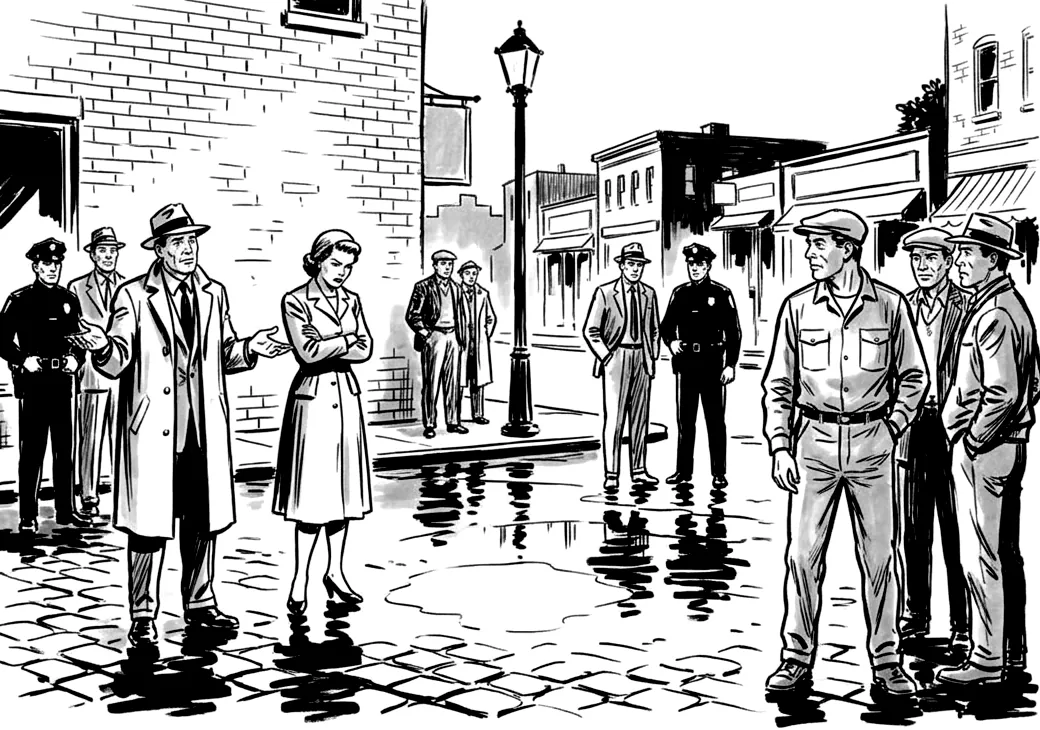
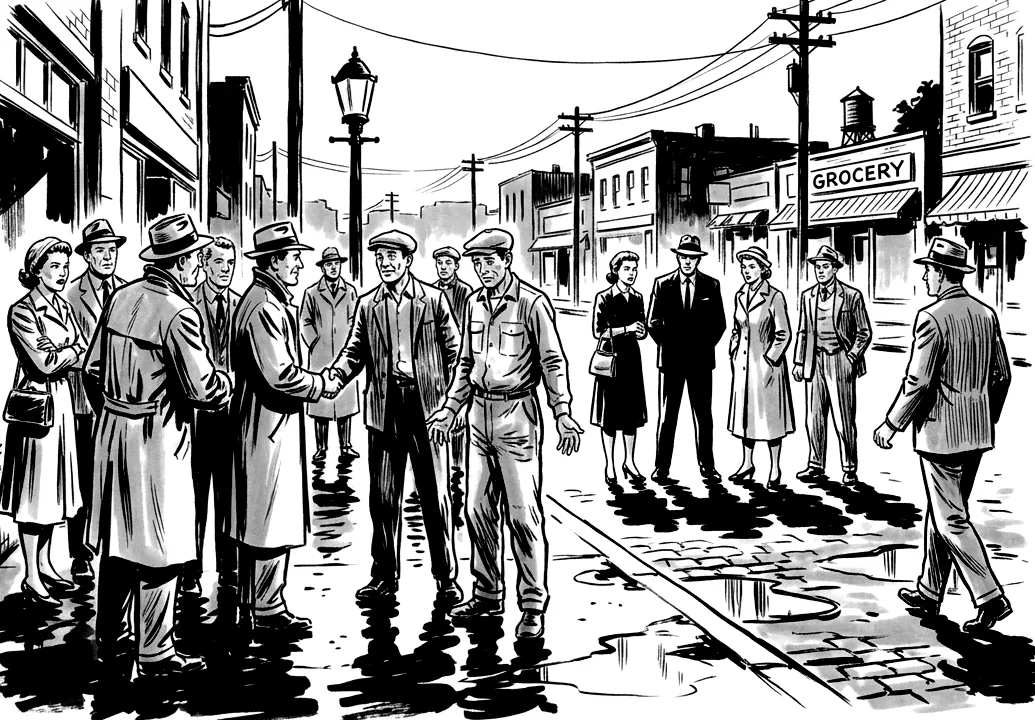
Ny dombild när ingen förvisas
Claude-Session: https://claude.ai/code/session_01X82C4BNK6EAMjc8zCm3VXK

diff --git a/src/scenes/sceneImages.js b/src/scenes/sceneImages.js
@@ -126,7 +126,7 @@ export const SCENE_IMAGES = /** @type {const} */ ({
   morningNoMurder: { src: morningNoMurder, alt: 'En regnvåt gata på morgonen. En mjölkbud ställer flaskor på en trappa, och en man i hatt läser tidningen mot en vägg.', position: '65% 50%' },
   verdictWoman: { src: verdictWoman, alt: 'Två män i hatt pekar på en rädd kvinna som står med hatten i handen vid en tegelvägg.', position: '50% 40%' },
   verdictMan: { src: verdictMan, alt: 'Två män i hatt pekar på en rädd man som står med hatten i händerna vid en tegelvägg.', position: '50% 40%' },
-  verdictNobody: { src: verdictNobody, alt: 'Stadsborna står utspridda på ett regnvått torg och ser misstänksamt på varandra. En man slår ut med händerna, en kvinna står med armarna i kors, och mitt på torget är det tomt.', position: '50% 50%' },
+  verdictNobody: { src: verdictNobody, alt: 'Stadsborna står kvar på en våt gata efter omröstningen. Två män skakar hand, några står och tittar, och en man går därifrån.', position: '30% 50%' },
   mafiaWins: { src: mafiaWins, alt: 'Två män i rock och hatt står på ett tak och ser ut över den mörka staden. Den ena tänder en cigarett.', position: '30% 40%' },
   townWins: { src: townWins, alt: 'Stadsborna skakar hand på en regnvåt gata, medan två poliser för bort en man i kostym mot en polisbil.', position: '50% 50%' },
   madmanWinsWoman: { src: madmanWinsWoman, alt: 'Två skötare i vita rockar för bort en skrattande kvinna i tvångströja mot en ambulans. Några stadsbor ser på.', position: '75% 50%' },
